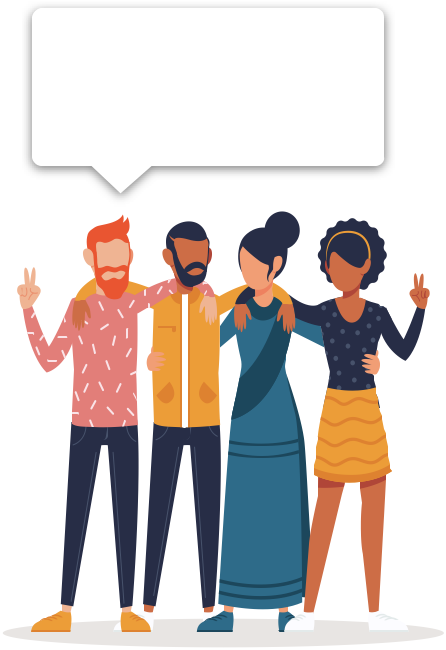
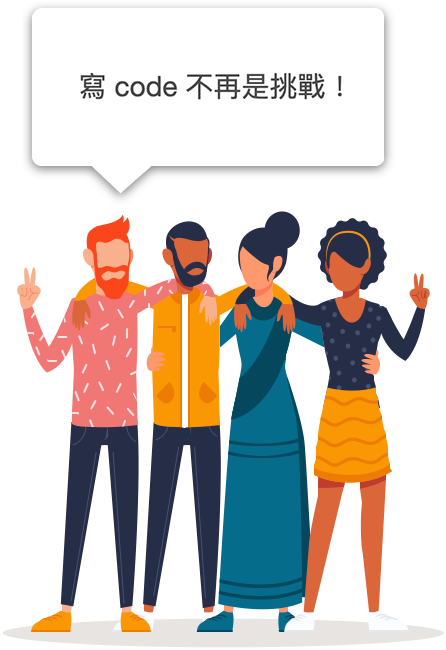
修改: 登入前首頁跑版

diff --git a/app/javascript/styles/pages/without-login.scss b/app/javascript/styles/pages/without-login.scss
@@ -1,7 +1,7 @@
 .user-index-container {
   @apply mt-24 mb-10;
   .page-container {
-    @apply flex w-4/5 m-auto;
+    @apply flex w-4/5 m-auto min-w-max h-screen;
     .img {
       @apply w-7/12 mt-6 relative;
       .slogan {
